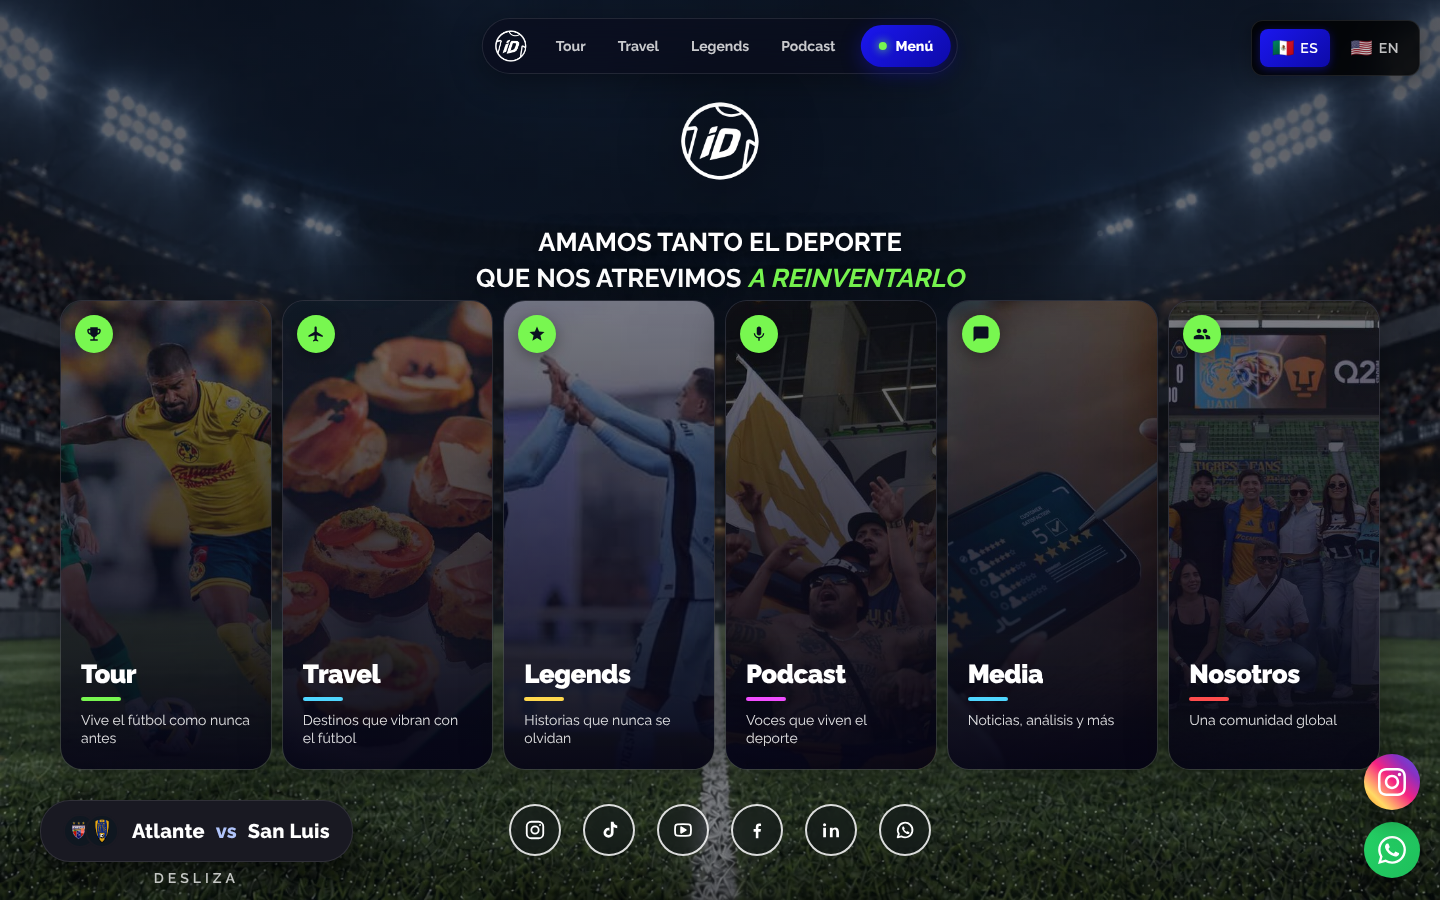
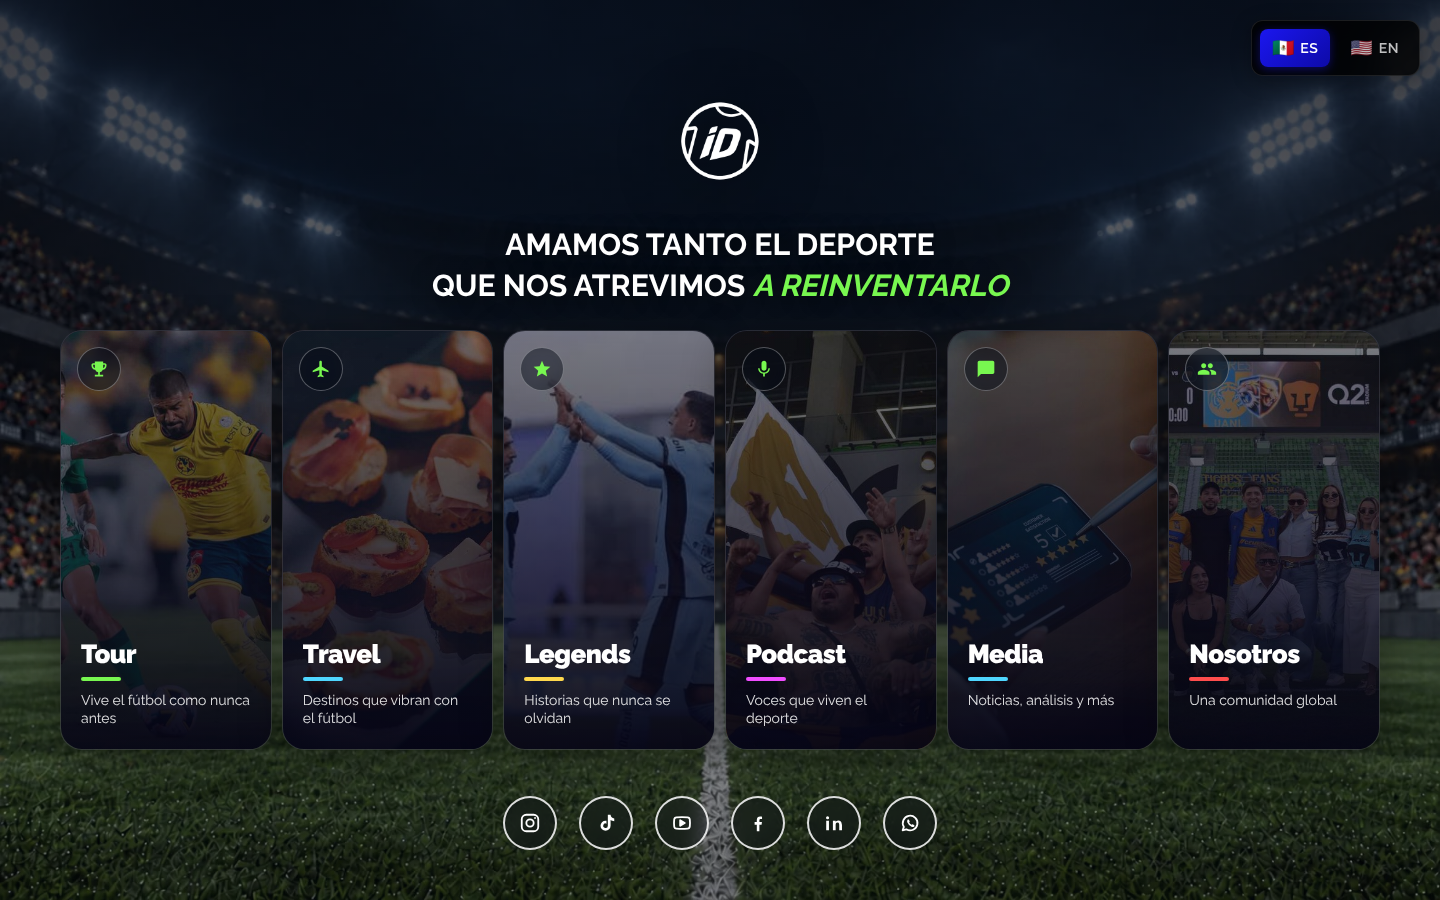
Inicio: igual al mockup
Fuera la barra de menú de arriba, la hoja y la píldora del próximo partido
y el dock flotante: en el inicio quedan el selector de idioma, el isotipo,
el lema, las seis puertas y las redes, como en el mockup. Los íconos de las
puertas van en verde sobre círculo oscuro, el isotipo y el lema crecen, y
el velo del fondo se oscurece arriba dejando el pasto y la línea central
a la vista.

Claude-Session: https://claude.ai/code/session_01TBS5J98YBvjYTTdc9XtUtE

diff --git a/assets/css/inicio.css b/assets/css/inicio.css
@@ -7,58 +7,11 @@
    Colores: el azul y el verde del logo, por variable, como manda main.css.
    ═══════════════════════════════════════════════════════════════════════ */
 
-/* ─── Píldora de vidrio ───────────────────────────────────────────── */
-.pildora {
-  position: fixed; top: 18px; left: 50%; transform: translateX(-50%); z-index: 9995;
-  display: flex; align-items: center; gap: 6px;
-  padding: 6px 6px 6px 8px; border-radius: 999px;
-  background: rgba(10, 10, 26, 0.55);
-  backdrop-filter: blur(16px); -webkit-backdrop-filter: blur(16px);
-  border: 1px solid rgba(255,255,255,0.1);
-  box-shadow: 0 8px 32px rgba(0,0,0,0.35);
-}
-.pildora__iso { display: flex; width: 40px; height: 40px; align-items: center; justify-content: center; }
-.pildora__iso img { width: 34px; height: 34px; }
-.pildora__nav { display: flex; gap: 2px; padding: 0 4px; }
-.pildora__nav a {
-  font-size: 14px; font-weight: 700; color: rgba(255,255,255,0.78);
-  padding: 9px 15px; border-radius: 999px; text-decoration: none;
-  transition: background .2s, color .2s;
-}
-.pildora__nav a:hover { background: rgba(255,255,255,0.1); color: #fff; }
-.pildora__menu {
-  display: inline-flex; align-items: center; gap: 9px;
-  font-size: 14px; font-weight: 800; color: #fff; text-decoration: none;
-  padding: 10px 18px; border-radius: 999px;
-  background: linear-gradient(135deg, var(--brand-blue), var(--brand-blue-deep));
-  box-shadow: 0 6px 20px rgba(var(--brand-blue-rgb), 0.35);
-}
-.pildora__punto { width: 8px; height: 8px; border-radius: 50%; background: var(--brand-lime); box-shadow: 0 0 10px var(--brand-lime); }
-
-/* ─── Menú completo (ancla, sin JavaScript) ───────────────────────── */
-.menu { position: fixed; inset: 0; z-index: 10050; visibility: hidden; opacity: 0; transition: opacity .25s, visibility .25s; }
-.menu:target { visibility: visible; opacity: 1; }
-.menu__scrim { position: absolute; inset: 0; background: rgba(5,4,21,0.72); backdrop-filter: blur(10px); -webkit-backdrop-filter: blur(10px); }
-.menu__panel {
-  position: relative; max-width: 760px; margin: 0 auto; height: 100%; padding: 24px 24px 32px;
-  display: flex; flex-direction: column; color: #fff; overflow-y: auto;
-  animation: menuEntra .3s cubic-bezier(.2,.8,.3,1);
-}
-@keyframes menuEntra { from { opacity: 0; transform: translateY(18px); } to { opacity: 1; transform: none; } }
-.menu__cab { display: flex; align-items: center; justify-content: space-between; }
-.menu__x { width: 42px; height: 42px; border-radius: 50%; border: 1px solid rgba(255,255,255,0.2); background: rgba(255,255,255,0.06); color: #fff; font-size: 26px; line-height: 1; display: flex; align-items: center; justify-content: center; text-decoration: none; }
-.menu__lista { list-style: none; margin: 34px 0 0; padding: 0; }
-.menu__lista a {
-  display: grid; grid-template-columns: 34px 1fr; column-gap: 14px; align-items: baseline;
-  padding: 16px 14px; border-radius: 16px; color: #fff; text-decoration: none;
-  transition: background .2s;
-}
-.menu__lista a:hover { background: rgba(255,255,255,0.07); }
-.menu__lista small { font-size: 12px; font-weight: 800; color: var(--brand-lime); }
-.menu__lista span { font-size: clamp(30px, 6vw, 48px); font-weight: 900; letter-spacing: -.02em; line-height: 1.05; }
-.menu__lista em { grid-column: 2; font-style: normal; font-size: 14px; color: rgba(255,255,255,0.65); margin-top: 4px; }
-.menu__redes { margin-top: auto; padding-top: 28px; display: flex; flex-wrap: wrap; gap: 8px; }
-.menu__redes a { font-size: 13px; font-weight: 700; color: #fff; text-decoration: none; padding: 9px 15px; border-radius: 999px; border: 1px solid rgba(255,255,255,0.2); background: rgba(255,255,255,0.06); }
+/* ─── Lo que el mockup no lleva ───────────────────────────────────── */
+/* Ni la hoja del próximo partido, ni su píldora, ni el dock flotante: el
+   inicio es el isotipo, el lema, las seis puertas y las redes. Todo eso
+   sigue en el layout para las demás páginas; aquí se apaga con CSS. */
+body .mn-sheet, body .mn-overlay, body .mn-mini, body .sid-dock { display: none !important; }
 
 /* ─── Hero: el home es el menú ────────────────────────────────────── */
 /* En escritorio el contenido del hero sube (isotipo + lema arriba) y las
@@ -69,12 +22,12 @@
 /* El fondo del mockup: el estadio se ve entero, en frío y apagado, con el
    pasto y la línea central a la vista abajo. Un velo azul marino parejo,
    apenas más denso arriba, y nada de degradado negro al pie. */
-.hero-video-container::after { background: linear-gradient(180deg, rgba(8,12,24,0.62) 0%, rgba(8,12,24,0.45) 40%, rgba(8,12,24,0.30) 100%); }
-.hero-image { filter: saturate(0.72) brightness(0.82); }
+.hero-video-container::after { background: linear-gradient(180deg, rgba(4,7,16,0.74) 0%, rgba(4,7,16,0.56) 30%, rgba(4,7,16,0.40) 62%, rgba(4,7,16,0.28) 100%); }
+.hero-image { filter: saturate(0.8) brightness(0.8); }
 .hero-logo-text img { width: 84px; height: 84px; }
 /* El tamaño del lema en celular ya está calibrado en main.css (dos líneas
    exactas); sólo se toca en escritorio. */
-@media (min-width: 1025px) { .hero-tagline { font-size: 1.6rem; margin-bottom: 0; } }
+@media (min-width: 1025px) { .hero-tagline { font-size: clamp(1.6rem, 2.1vw, 2rem); margin-bottom: 0; line-height: 1.35; } }
 .hero-section .hero-tagline em { font-style: italic; color: var(--brand-lime); }
 
 /* ─── Las seis puertas ────────────────────────────────────────────── */
@@ -83,7 +36,7 @@
    redes, que se reparten a sus lados. */
 /* Alto de las puertas: lo que queda de pantalla tras el bloque de arriba
    (≈270 px) y la banda de abajo (130 px). Medido en 1280×720 y 1440×900. */
-.puertas { --alto: clamp(250px, calc(100vh - 420px), 470px); position: relative; z-index: 4; display: flex; gap: 10px; width: min(1320px, calc(100% - 80px)); height: var(--alto); margin: calc(-1 * var(--alto) - 130px) auto 0; }
+.puertas { --alto: clamp(250px, calc(100vh - 480px), 440px); position: relative; z-index: 4; display: flex; gap: 10px; width: min(1320px, calc(100% - 80px)); height: var(--alto); margin: calc(-1 * var(--alto) - 150px) auto 0; }
 .puerta {
   position: relative; flex: 1; min-width: 0; border-radius: 22px; overflow: hidden; isolation: isolate;
   text-decoration: none; color: #fff;
@@ -100,11 +53,12 @@
 .puerta:hover { flex: 2.4; border-color: rgba(var(--brand-blue-rgb), 0.7); box-shadow: 0 16px 50px rgba(var(--brand-blue-rgb), 0.25); }
 .puerta:hover::before { opacity: 1; transform: none; }
 .puerta__icono {
-  position: absolute; top: 14px; left: 14px; z-index: 2;
-  width: 38px; height: 38px; border-radius: 50%; display: flex; align-items: center; justify-content: center;
-  background: var(--brand-lime); color: #0b1020; box-shadow: 0 4px 16px rgba(0,0,0,0.35);
+  position: absolute; top: 16px; left: 16px; z-index: 2;
+  width: 44px; height: 44px; border-radius: 50%; display: flex; align-items: center; justify-content: center;
+  background: rgba(8,12,24,0.55); border: 1px solid rgba(255,255,255,0.3); color: var(--brand-lime);
+  backdrop-filter: blur(8px); -webkit-backdrop-filter: blur(8px);
 }
-.puerta__icono svg { width: 18px; height: 18px; }
+.puerta__icono svg { width: 20px; height: 20px; }
 .puerta__cuerpo { position: absolute; left: 20px; right: 20px; bottom: 22px; z-index: 2; display: flex; flex-direction: column; gap: 0; }
 .puerta__nombre { font-size: clamp(1.3rem, 1.8vw, 1.8rem); font-weight: 900; letter-spacing: -.02em; line-height: 1.05; white-space: nowrap; }
 .puerta__barra { display: block; width: 40px; height: 4px; border-radius: 2px; background: var(--barra, var(--brand-lime)); margin: 8px 0 10px; }
@@ -116,11 +70,11 @@
 /* En escritorio las redes son seis círculos centrados bajo las puertas, como
    en el mockup. Para dejarles el centro, la píldora del próximo partido (del
    layout, fija) se recorre a la izquierda sólo en esta página. */
-.redes-v2 { position: relative; z-index: 4; height: 130px; padding: 34px 40px 0; }
+.redes-v2 { position: relative; z-index: 4; height: 150px; padding: 46px 40px 0; }
 .redes-v2 .section-header { display: none; }
 .redes-v2__grid { display: flex; justify-content: center; gap: 22px; }
 .redes-v2__chip {
-  width: 52px; height: 52px; border-radius: 50%; display: flex; align-items: center; justify-content: center;
+  width: 54px; height: 54px; border-radius: 50%; display: flex; align-items: center; justify-content: center;
   color: #fff; text-decoration: none; border: 2px solid rgba(255,255,255,0.85); background: rgba(8,12,24,0.35);
   backdrop-filter: blur(8px); -webkit-backdrop-filter: blur(8px);
   transition: transform .2s, background .2s, border-color .2s, color .2s;
@@ -130,9 +84,6 @@
 .redes-v2__chip:hover { transform: translateY(-3px); background: var(--brand-lime); border-color: var(--brand-lime); color: #0b1020; }
 .footer-content { display: flex; align-items: center; justify-content: space-between; gap: 16px; flex-wrap: wrap; max-width: 1200px; margin: 0 auto; padding: 24px 20px; color: rgba(255,255,255,0.6); font-size: 13px; }
 .footer-content a { color: inherit; }
-/* Las reglas de la píldora viven en un <style> del layout que llega después
-   de esta hoja; por eso van con body delante (más específicas). */
-@media (min-width: 1025px) { body .mn-mini { left: 40px; transform: translateX(0) translateY(220%); } body .mn-mini.active { transform: translateX(0) translateY(0); } }
 
 /* ─── Menú lateral (dot-nav original) ─────────────────────────────── */
 /* En escritorio las puertas ya son el menú. En celular es EL menú, así
@@ -149,7 +100,7 @@
 @media (max-width: 1024px) {
   .hero-section { padding-top: 84px; }
   .hero-logo-text img { width: 72px; height: 72px; }
-  .puertas { --alto: clamp(330px, calc(100vh - 395px), 560px); display: grid; grid-template-columns: 1fr 1fr; grid-template-rows: repeat(3, 1fr); gap: 10px; width: calc(100% - 32px); margin: calc(-1 * var(--alto) - 118px) auto 0; }
+  .puertas { --alto: clamp(330px, calc(100vh - 370px), 560px); display: grid; grid-template-columns: 1fr 1fr; grid-template-rows: repeat(3, 1fr); gap: 10px; width: calc(100% - 32px); margin: calc(-1 * var(--alto) - 90px) auto 0; }
   .puerta { flex: none; border-radius: 18px; }
   .puerta:hover { flex: none; }
   .puerta::before { opacity: .7; transform: none; }
@@ -159,17 +110,16 @@
   .puerta__cuerpo { left: 14px; right: 14px; bottom: 12px; }
   .puerta__icono { width: 34px; height: 34px; top: 10px; left: 10px; }
   .puerta__icono svg { width: 16px; height: 16px; }
-  .redes-v2 { height: auto; margin-top: 118px; padding: 40px 16px 110px; } /* 118: la banda de la píldora del partido */
-  .redes-v2 .section-header { display: block; margin-bottom: 22px; }
-  .redes-v2__grid { flex-wrap: wrap; gap: 14px; }
+  .redes-v2 { height: 90px; margin-top: 0; padding: 18px 16px 0; }
+  .redes-v2__grid { gap: 10px; }
+  .redes-v2__chip { width: 46px; height: 46px; }
+  .redes-v2__chip svg { width: 20px; height: 20px; }
   /* El lateral se comporta como en la original: aparece al bajar. */
   .dot-nav--inicio { display: flex; }
 }
 @media (max-width: 768px) {
   /* En celular la píldora es sólo el isotipo, a la izquierda; el menú es
      el lateral de la derecha. */
-  .pildora { left: 12px; transform: none; padding: 5px; }
-  .pildora__nav, .pildora__menu { display: none; }
 }
 @media (prefers-reduced-motion: reduce) {
   .puerta { animation: none; opacity: 1; transform: none; }
